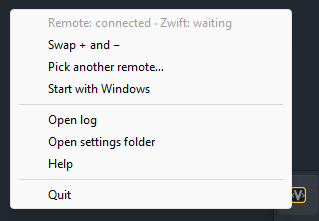
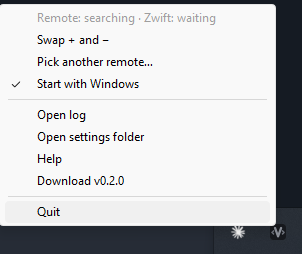
docs: tray menu screenshot with Start with Windows and Download

Changed region(s): [[0.0, 0.0, 1.0, 0.9502], [0.1192, 0.5158, 0.4768, 0.5701]]

diff --git a/README.md b/README.md
@@ -47,7 +47,7 @@ Run `V-Steer.exe` (or tick **Start with Windows** in its menu), then start Zwift
 Right-click the icon for the menu: **Swap + and −**, **Pick another remote…**, **Start with
 Windows**, **Open log**, **Open settings folder**, **Help** and **Quit**.
 
-<img src="docs/screens/tray-menu.png" width="320" alt="The V-Steer tray menu">
+<img src="docs/screens/tray-menu.png" width="302" alt="The V-Steer tray menu with Start with Windows ticked and a Download item for a new version">
 
 **Start with Windows** remembers where `V-Steer.exe` is: after moving it, untick and tick again.
 
